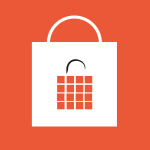
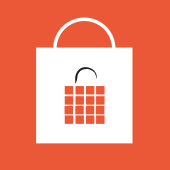
test

diff --git a/www/index.html b/www/index.html
@@ -82,10 +82,14 @@
 		
 	</script>
 
-	<li><a href="eserciziVicini.html" rel="external" data-transition="slide"><img src="img/opzioni.png"></a></li>
-	<li><a href="categorie.html" rel="external" data-transition="slide"><img src="img/opzioni.png"></a></li>
-	<li><a href="nomeEsercizi.html" rel="external" data-transition="slide"><img src="img/opzioni.png"></a></li>
-	<li><a href="brandEsercizi.html" rel="external" data-transition="slide"><img src="img/opzioni.png"></a></li>
+	<div id="manicoBorsa">
+	</div>
+	<div id="rigaBorsa">
+	<div class="blocco_sx"><a href="eserciziVicini.html" rel="external" data-transition="slide"><img src="img/ricercaDistanza.png"></a></div><div class="blocco_dx"><a href="categorie.html" rel="external" data-transition="slide"><img src="img/ricercaCategoria.png"></a></div>
+	</div>
+	<div id="rigaBorsa">
+	<div class="blocco_sx"><a href="nomeEsercizi.html" rel="external" data-transition="slide"><img src="img/ricerche.png"></a></div><div class="blocco_dx"><a href="brandEsercizi.html" rel="external" data-transition="slide"><img src="img/ricerche.png"></a></div>
+	</div>
 	
 	</div>
 	<!-- /CONTENT -->
